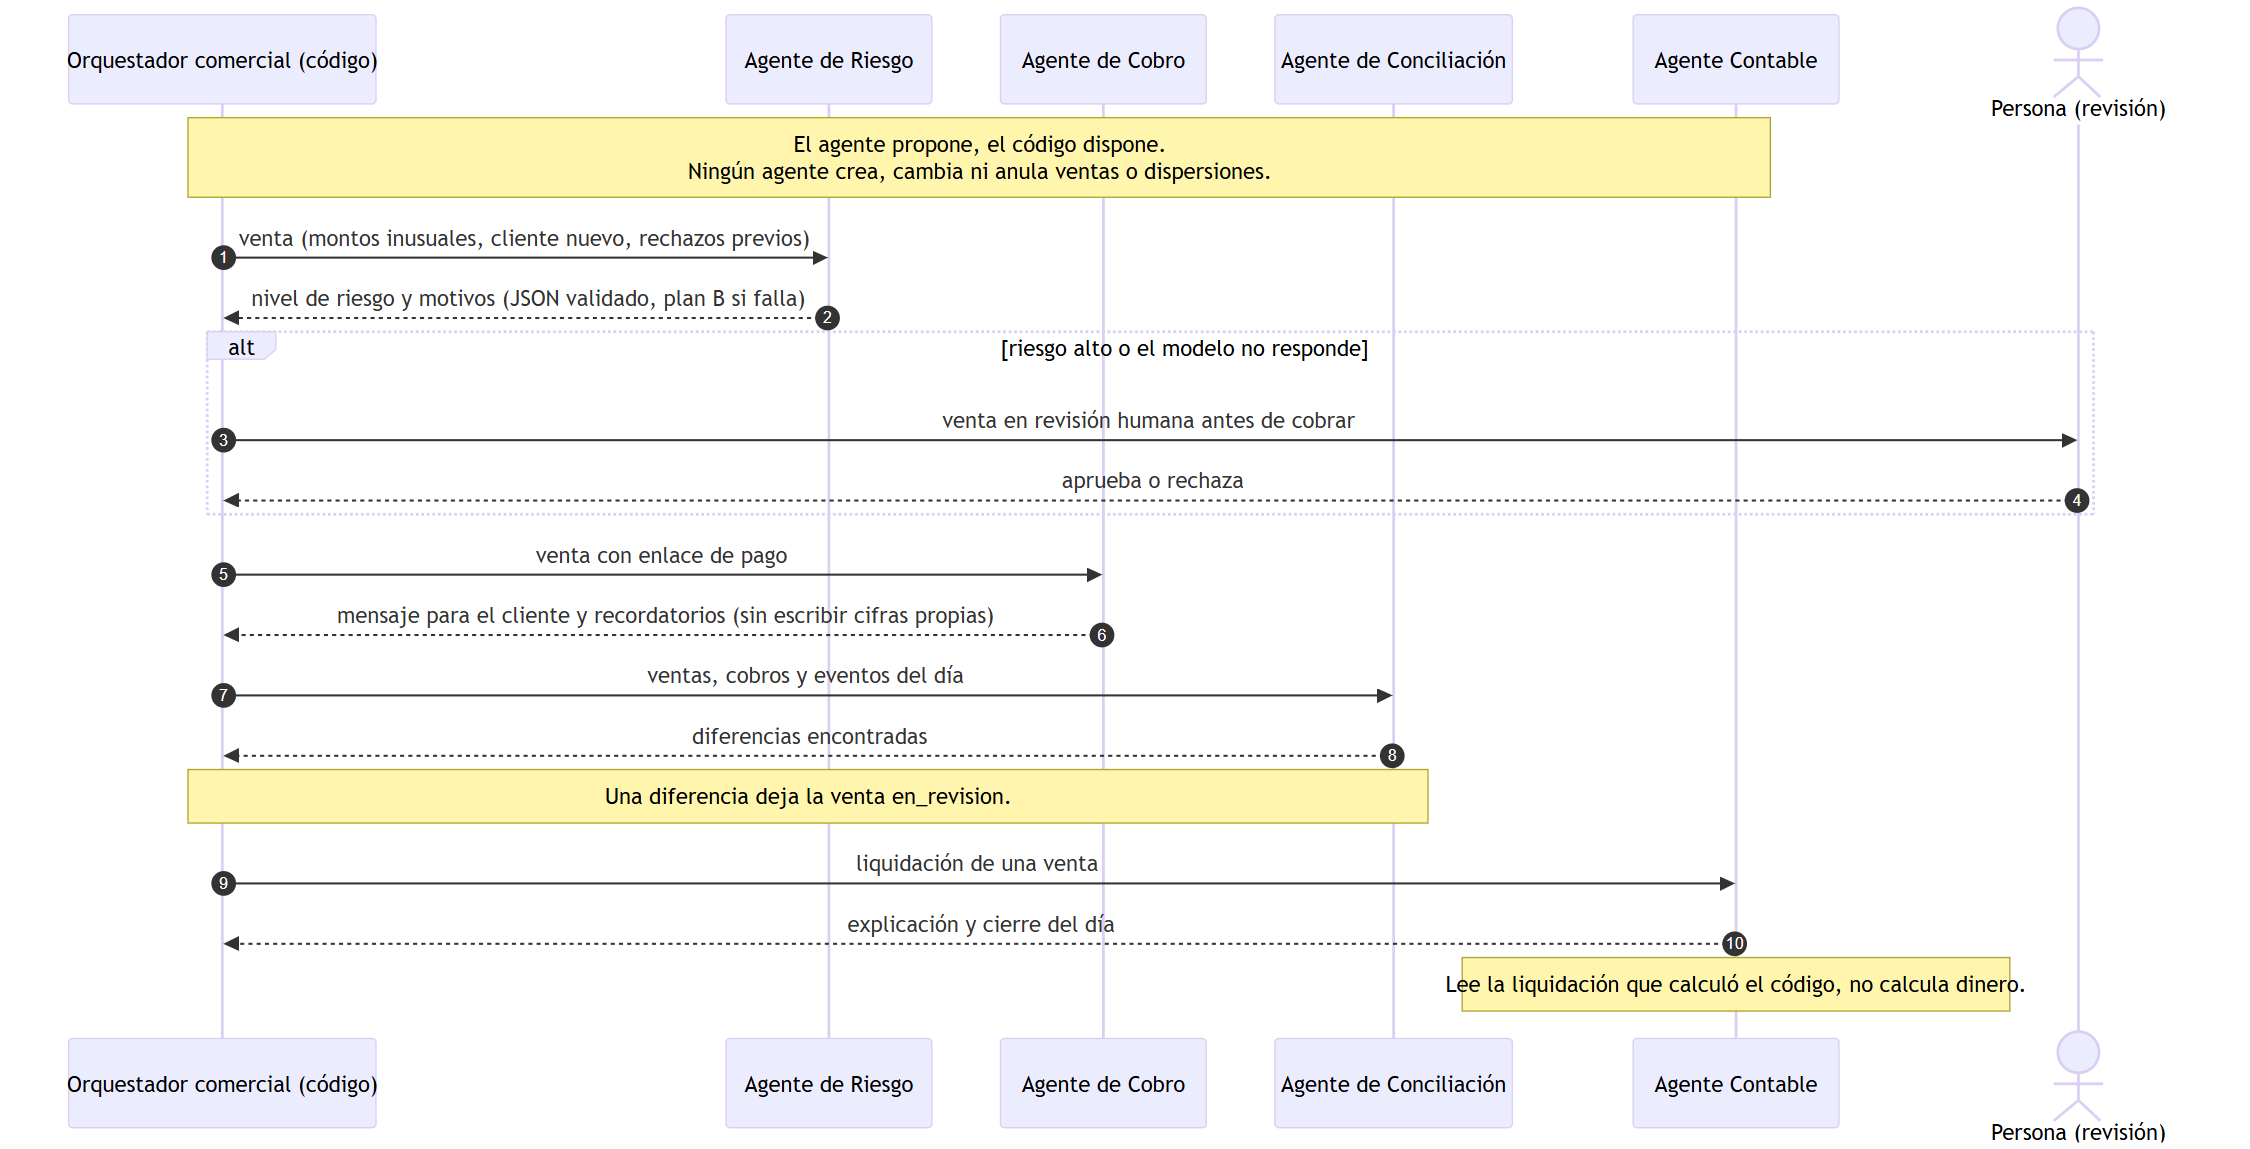
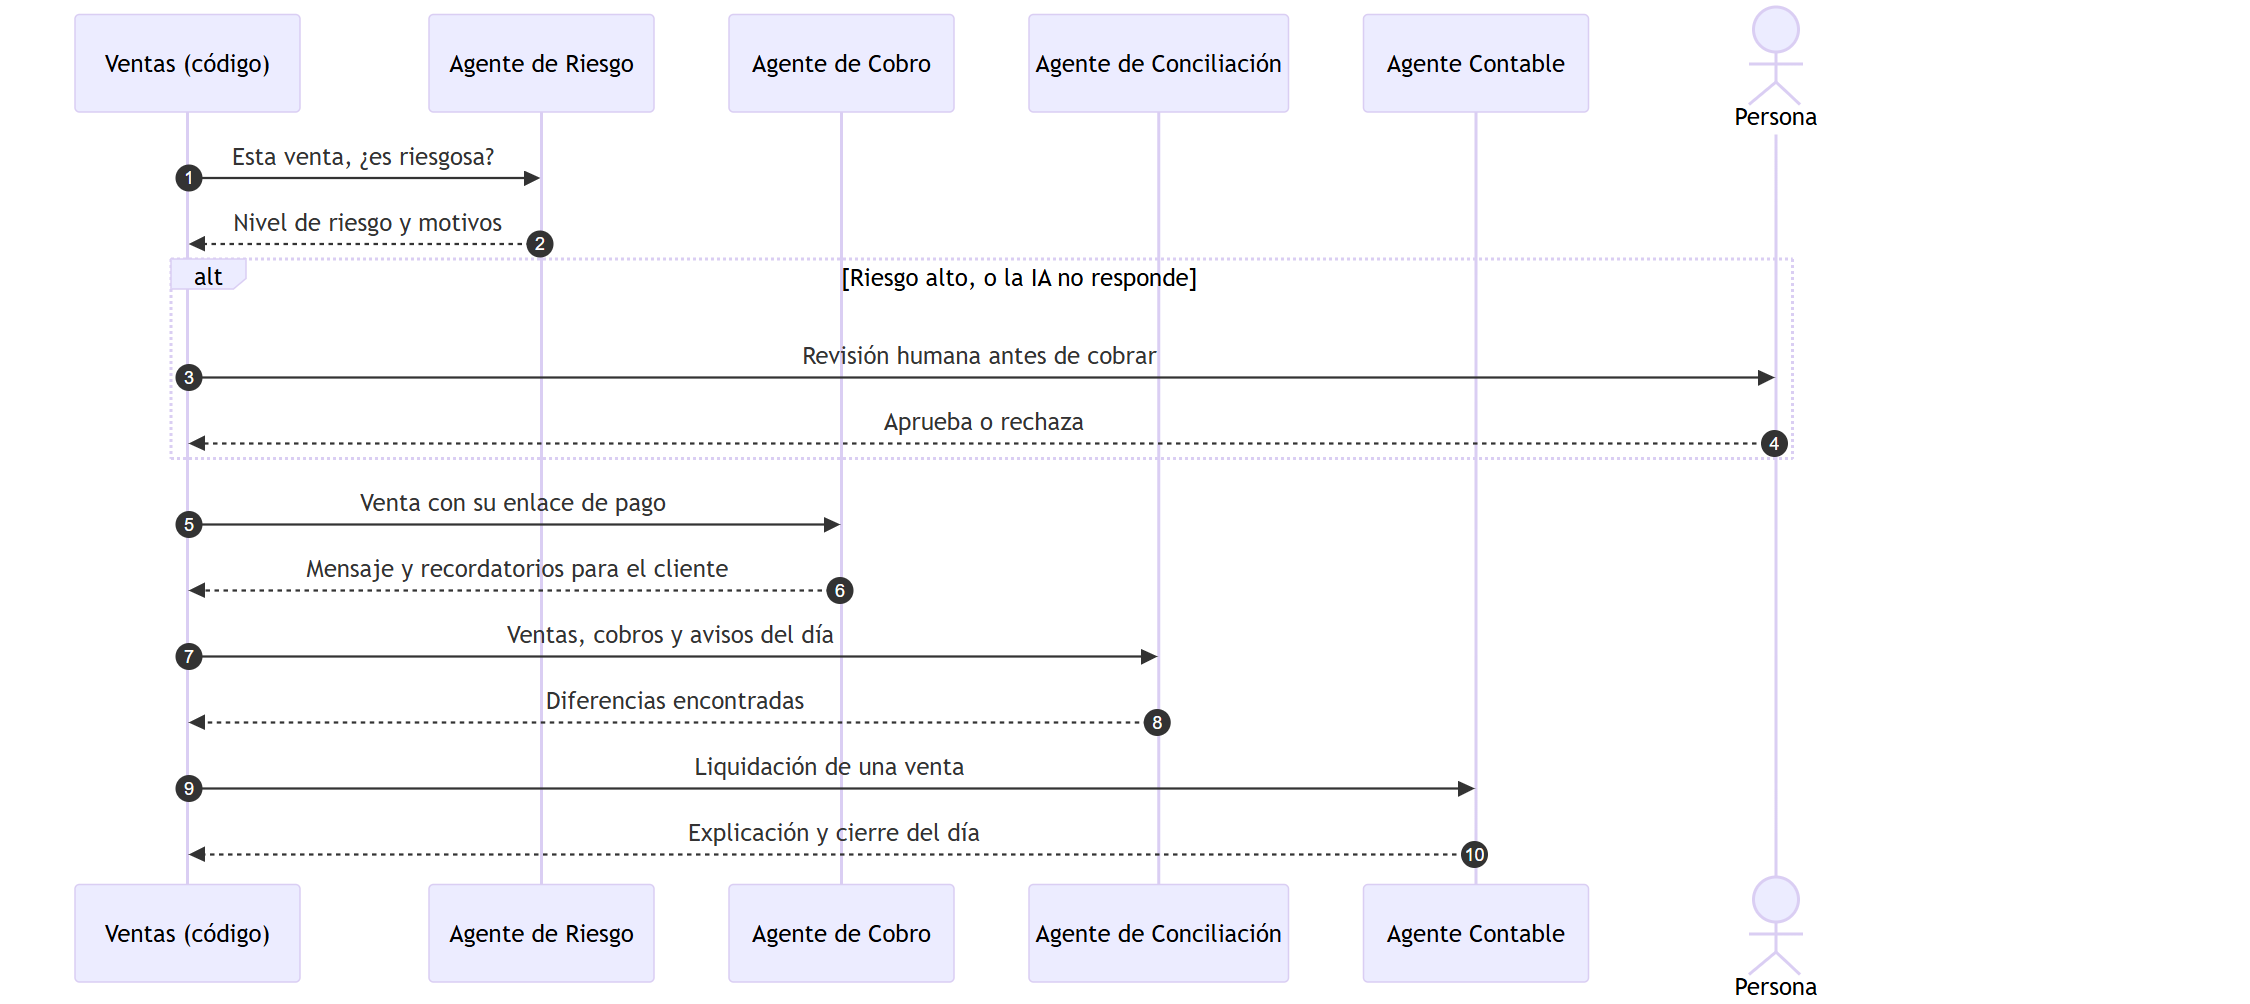
docs: diagrama de Ventas más claro (cuatro fases, glosario, dispersión visible y ejemplo con números del instructivo)

diff --git a/docs/diagrama-secuencia-ventas.md b/docs/diagrama-secuencia-ventas.md
@@ -1,176 +1,195 @@
-# Diagrama de secuencia: Ventas y contabilidad frente a los demás servicios
+# Cómo funciona Ventas (grupo de Zaidy) frente a los demás
 
-Servicio del grupo de Zaidy dentro de MotorRed (Instructivo N.° 5). Ventas es el **orquestador comercial**: arma la venta, cobra, confirma a los proveedores, liquida, dispersa el dinero y lleva los asientos. Es el único que mueve dinero.
+**En una frase:** Ventas es la **caja** del ecosistema. El taller le pide cobrar una reparación, Ventas cobra al cliente, avisa a las tiendas que despachen, **reparte el dinero** entre quienes vendieron y lleva la contabilidad.
 
-Contrastado con el kit `ecosistema-motor` (contrato 1.0): `contrato/REGLAS.md`, `docs/contrato.md`, `simuladores/ventas.mjs` y `simuladores/pasarela.mjs`. Los nombres de herramientas, alcances, estados, eventos y códigos de error son los del kit.
+Es el único servicio que maneja dinero. Contrastado con el kit `ecosistema-motor` (contrato 1.0).
 
-## Quién habla con quién
+## Quién es quién
 
-| Origen | Destino | Cómo | Alcance / protección |
-|---|---|---|---|
-| Taller | Ventas | MCP `crear_venta`, `consultar_venta`, `generar_cobro`, `anular_venta`, `consultar_liquidacion` | Cliente `taller`, alcance `ventas.crear` |
-| App del cliente | Ventas | MCP `consultar_venta`, `generar_cobro`, `consultar_liquidacion` | Cliente `app`, alcance `ventas.consultar` |
-| Ventas | Tienda y Concesionario | MCP `consultar_reserva`, `confirmar_reserva`, `liberar_reserva` | Cliente `ventas`, alcance `proveedor.confirmar` |
-| Ventas | Pasarela | `POST /api/cobros` y `POST /api/cobros/:id/reembolso` | Llave de API (`Authorization: Bearer`) |
-| Pasarela | Ventas | Webhook `POST /webhooks/pasarela` (`cobro.aprobado`, `cobro.rechazado`, `cobro.reembolsado`) | Firma `X-Pasarela-Firma`, máximo 5 min, idempotente por `evento_id` |
-| Ventas | Taller | `POST /eventos`: `venta.pagada`, `venta.liquidada`, `venta.pago_rechazado`, `venta.reembolsada` | Firma `X-Firma`; solo a `NOTIFICACIONES_PERMITIDAS` |
-| Auditor | Todos | `GET /bitacora?traza_id=` | Alcance `auditoria` |
+| Actor | Qué hace en la historia |
+|---|---|
+| **Cliente** | Es la persona que lleva su carro y paga. |
+| **Taller** (Falla) | Diagnostica, cotiza y le pide a Ventas que cobre. |
+| **Ventas** (Zaidy) | **Nosotros.** Cobra, confirma, reparte y registra. |
+| **Proveedores** (José y Emerson) | La tienda de repuestos y el concesionario. Tienen los repuestos reservados. |
+| **Pasarela** | Donde el cliente paga. Es simulada y viene en el kit. |
 
-Estados de una venta: `pendiente_pago`, `pago_rechazado`, `pagada`, `liquidada`, `reembolsada`, `anulada` y `en_revision`.
+## Palabras que verás
 
-## 1. Camino feliz: de la venta a la liquidación
+| Palabra | Qué significa |
+|---|---|
+| **Reserva** | Repuestos apartados para esa orden, con el precio congelado y una hora de vencimiento. |
+| **Cobro** | La orden de pago que Ventas crea en la pasarela. Trae un enlace para que el cliente pague. |
+| **Webhook** | El aviso automático que la pasarela le manda a Ventas cuando el cliente pagó. Va firmado, y puede llegar repetido. |
+| **Liquidar** | Calcular cuánto le toca a cada uno del dinero recibido. |
+| **Dispersión** | El reparto: a cada beneficiario se le registra su parte. En el kit es un registro contable, no una transferencia real. |
+| **Comisión** | El 3 % que se queda la plataforma por el servicio, más el IVA de esa comisión. |
+| **Compensación** | Deshacer lo hecho cuando algo falla después del pago: liberar reservas y devolver el dinero. |
+| **en_revision** | Ventas se detiene y una persona revisa, porque algo no cuadró. Nunca dispersa dinero así. |
+
+## 1. La venta completa, en cuatro fases
+
+Línea continua: una petición. Línea punteada: una respuesta o un aviso.
 
 ```mermaid
 sequenceDiagram
     autonumber
     actor C as Cliente
-    participant T as Taller (Falla)
-    participant V as VENTAS (Zaidy)
-    participant P as Tienda / Concesionario
-    participant G as Pasarela simulada
-
-    Note over T,P: Antes: el taller ya diagnosticó, cotizó y reservó repuestos<br/>con precio congelado y vencimiento. El cliente aprobó la opción.
-
-    T->>V: MCP crear_venta (orden_id, pagador, lineas, clave_idempotencia, traza_id, url_notificacion)
-    Note right of V: Valida el token y el alcance ventas.crear.<br/>Misma clave y mismos datos devuelve la misma venta.<br/>Misma clave con otros datos: IDEMPOTENCIA_CONFLICTO.<br/>url_notificacion fuera de la lista permitida: DATOS_INVALIDOS.
-
-    loop Por cada reserva de la venta
-        V->>P: MCP consultar_reserva (traza_id, reserva_id)
-        P-->>V: estado, items con precio, IVA y cantidad reales
-        Note right of V: La reserva debe estar activa (si no, RESERVA_VENCIDA),<br/>ser de la misma traza y no pertenecer a otra venta (ESTADO_INVALIDO).<br/>SKU, precio, IVA y cantidad deben coincidir: PRECIO_NO_COINCIDE.
-    end
-
-    Note right of V: Agente de Riesgo propone nivel y motivos.<br/>Si el riesgo es alto, la venta queda en revisión humana antes de cobrar.<br/>El código calcula IVA por línea, retención y total_a_pagar en pesos enteros.
-
-    alt total a pagar mayor que cero
-        V->>G: POST /api/cobros (monto entero, referencia = venta_id, url_webhook)
-        G-->>V: cobro_id y url_checkout
-        V-->>T: venta en pendiente_pago con url_pago
-        T-->>C: enlace de pago
-        C->>G: paga (Pagar aprobar)
-        G-->>V: webhook cobro.aprobado (firmado, puede llegar dos veces)
-        Note right of V: Verifica la firma y que tenga menos de 5 min.<br/>Guarda el evento_id solo cuando termina bien: un duplicado se ignora.<br/>El monto del cobro debe ser igual a total_a_pagar.
-    else total a pagar igual a cero (garantía completa)
-        Note right of V: No hay nada que cobrar:<br/>se confirma y se liquida de una vez.
-    end
-
-    V-->>T: evento venta.pagada
-
-    loop Por cada reserva
-        V->>P: MCP confirmar_reserva (traza_id, reserva_id, venta_id)
-        P-->>V: reserva confirmada con la guía de despacho
-    end
+    participant T as Taller
+    participant V as VENTAS (nosotros)
+    participant P as Proveedores<br/>(tienda y concesionario)
+    participant G as Pasarela
 
     rect rgb(238, 242, 255)
-    Note over V: Liquidación en una sola transacción de PostgreSQL<br/>1. Retención en la fuente si el pagador es retenedor (parámetros con vigencia)<br/>2. Comisión de la plataforma 3% más su IVA, por beneficiario<br/>3. Neto de cada beneficiario y dispersión transferida<br/>4. Asientos en partida doble: débitos igual a créditos
-    end
-
-    V-->>T: evento venta.liquidada (neto por beneficiario)
-    Note over T: La orden pasa a en_reparacion.
-    T-->>C: el taller puede empezar
-```
-
-Los eventos de una misma venta salen **en orden**: `venta.pagada` siempre antes que `venta.liquidada`.
-
-## 2. Fallos y compensaciones
-
-```mermaid
-sequenceDiagram
-    autonumber
-    actor C as Cliente
-    participant T as Taller (Falla)
-    participant V as VENTAS (Zaidy)
-    participant P as Tienda / Concesionario
-    participant G as Pasarela simulada
-
-    rect rgb(254, 242, 242)
-    Note over C,G: A. Pago rechazado (escenario E3)
-    C->>G: intenta pagar y es rechazado
-    G-->>V: webhook cobro.rechazado
-    Note right of V: La venta pasa a pago_rechazado.
-    V-->>T: evento venta.pago_rechazado
-    T->>V: MCP generar_cobro
-    Note right of V: Vuelve a verificar que las reservas sigan activas.
-    V->>G: POST /api/cobros (cobro nuevo)
-    G-->>V: nuevo cobro_id y url_checkout
-    V-->>T: venta en pendiente_pago con enlace nuevo
-    C->>G: paga con éxito
-    G-->>V: webhook cobro.aprobado
-    Note over V: La venta se completa y se liquida una sola vez.
+    Note over T,G: FASE 1 · PREPARAR. El cliente ya aprobó la reparación
+    T->>V: Crear venta (qué se vende y quién paga)
+    V->>P: ¿Siguen vigentes las reservas y sus precios?
+    P-->>V: Sí, estos son los precios reales
+    Note over V: Si algún precio no coincide, Ventas rechaza la venta
+    V->>G: Crear el cobro por el total
+    G-->>V: Cobro creado con su enlace de pago
+    V-->>T: Venta lista y enlace de pago
+    T-->>C: Aquí está el enlace para pagar
     end
 
     rect rgb(255, 247, 237)
-    Note over C,G: B. Una reserva venció antes del pago: saga con compensación (escenario E4)
-    G-->>V: webhook cobro.aprobado
-    V-->>T: evento venta.pagada
-    V->>P: MCP confirmar_reserva
-    P-->>V: error RESERVA_VENCIDA
-    Note right of V: Ventas no puede des-cobrar.<br/>Compensa en orden y lo deja en la bitácora (saga_compensacion).
-    V->>P: MCP liberar_reserva (solo las reservas de esta venta)
-    P-->>V: unidades devueltas al inventario
-    V->>G: POST /api/cobros/:id/reembolso
-    G-->>V: cobro reembolsado
-    V-->>T: evento venta.reembolsada
-    Note over T: La orden queda en requiere_nueva_cotizacion y el taller cotiza de nuevo.
-    Note right of V: Si el reembolso falla, la venta queda en_revision.
-    end
-
-    rect rgb(245, 243, 255)
-    Note over C,G: C. Algo no cuadra: la baranda detiene el dinero
-    G-->>V: webhook con un monto distinto a total_a_pagar
-    Note right of V: La saga no improvisa.<br/>La venta queda en_revision y no dispersa nada.<br/>Lo mismo si la liquidación no cuadra.<br/>Una persona revisa la bitácora con el traza_id.
+    Note over T,G: FASE 2 · COBRAR
+    C->>G: Paga en la pasarela
+    G-->>V: Aviso: pago aprobado
+    Note over V: Revisa que el aviso sea auténtico y que el monto cuadre
+    V-->>T: Aviso: venta pagada
     end
 
     rect rgb(240, 253, 244)
-    Note over C,G: D. Ataques que Ventas rechaza (escenario E6)
-    T->>V: crear_venta con un precio alterado
-    V-->>T: PRECIO_NO_COINCIDE
-    T->>V: crear_venta con una reserva que ya es de otra venta
-    V-->>T: ESTADO_INVALIDO
-    G-->>V: webhook con firma falsa o de hace más de 5 min
-    Note right of V: Se rechaza con 401 y no cambia ningún estado.
-    T->>V: consultar_venta con la traza_id de otra orden
-    V-->>T: NO_ENCONTRADO
-    T->>V: crear_venta con url_notificacion externa
-    V-->>T: DATOS_INVALIDOS
+    Note over T,G: FASE 3 · CONFIRMAR A LOS PROVEEDORES
+    V->>P: Confirmar las reservas. Ya están pagadas
+    P-->>V: Confirmadas y listas para despachar
+    end
+
+    rect rgb(250, 245, 255)
+    Note over T,G: FASE 4 · REPARTIR EL DINERO Y REGISTRARLO
+    Note over V: Calcula la parte de cada uno:<br/>precio + IVA - retención - comisión
+    V->>T: Dispersión: la parte del taller
+    V->>P: Dispersión: la parte de cada proveedor
+    V->>V: La plataforma se queda con su comisión
+    Note over V: Registra todo en la contabilidad<br/>y comprueba que cuadre al peso
+    V-->>T: Aviso: venta liquidada, con lo repartido
+    T-->>C: Listo, el taller empieza la reparación
     end
 ```
 
-## 3. Dónde entran los agentes de IA de Ventas
+### Ejemplo con números reales (orden de Ana, opción económica)
+
+Ana pagó **$345.219**. Así se reparte:
+
+| Beneficiario | Base | IVA | Comisión (3 %) | IVA de la comisión | **Le llega** |
+|---|---|---|---|---|---|
+| Tienda | $147.600 | $28.044 | $4.428 | $841 | **$170.375** |
+| Taller | $142.500 | $27.075 | $4.275 | $812 | **$164.488** |
+| Plataforma (Ventas) | | | | | **$10.356** |
+| **Total** | | | | | **$345.219** |
+
+Lo que reciben tienda y taller, más lo que retiene la plataforma, es **exactamente** lo que pagó Ana. Si no cuadra, la venta queda en revisión.
+
+## 2. Cuando algo sale mal
 
 ```mermaid
 sequenceDiagram
     autonumber
-    participant V as Orquestador comercial (código)
+    actor C as Cliente
+    participant T as Taller
+    participant V as VENTAS (nosotros)
+    participant P as Proveedores
+    participant G as Pasarela
+
+    rect rgb(254, 242, 242)
+    Note over C,G: A. El pago es rechazado
+    C->>G: Intenta pagar
+    G-->>V: Aviso: pago rechazado
+    V-->>T: Aviso: pago rechazado
+    T->>V: Pide un cobro nuevo
+    V->>G: Crear un nuevo cobro
+    G-->>V: Nuevo enlace de pago
+    V-->>T: Enlace nuevo
+    C->>G: Paga con éxito
+    Note over V: La venta sigue su camino normal y se liquida una sola vez
+    end
+
+    rect rgb(255, 247, 237)
+    Note over C,G: B. La reserva venció antes de confirmar
+    G-->>V: Aviso: pago aprobado
+    V->>P: Confirmar las reservas
+    P-->>V: Error: una reserva ya venció
+    Note over V: No se puede despachar.<br/>Ventas deshace lo hecho, en este orden
+    V->>P: 1. Liberar las demás reservas
+    V->>G: 2. Devolver el dinero al cliente
+    V-->>T: 3. Aviso: venta reembolsada
+    Note over T: El taller vuelve a cotizar
+    end
+
+    rect rgb(245, 243, 255)
+    Note over C,G: C. Algo no cuadra
+    G-->>V: Aviso con un monto distinto al de la venta
+    Note over V: Ventas se detiene.<br/>Queda en revisión y NO reparte dinero.<br/>Una persona revisa la bitácora
+    end
+```
+
+### Ataques que Ventas rechaza
+
+| Qué intentan | Qué responde Ventas |
+|---|---|
+| Cobrar un precio distinto al de la reserva | `PRECIO_NO_COINCIDE` |
+| Usar una reserva que ya es de otra venta | `ESTADO_INVALIDO` |
+| Mandar un aviso de pago con firma falsa o vieja (más de 5 min) | Lo rechaza y no cambia nada |
+| Consultar una venta con la traza de otra orden | `NO_ENCONTRADO` |
+| Pedir que los avisos se envíen a una dirección externa | `DATOS_INVALIDOS` |
+| Repetir la misma petición | Devuelve lo mismo, sin cobrar dos veces. Con otros datos: `IDEMPOTENCIA_CONFLICTO` |
+
+## 3. Dónde ayuda la inteligencia artificial
+
+La IA solo propone. Quien decide siempre es el código, y ningún agente puede crear, cambiar ni anular una venta ni mover dinero.
+
+```mermaid
+sequenceDiagram
+    autonumber
+    participant V as Ventas (código)
     participant R as Agente de Riesgo
     participant K as Agente de Cobro
     participant L as Agente de Conciliación
     participant A as Agente Contable
-    actor H as Persona (revisión)
+    actor H as Persona
 
-    Note over V,A: El agente propone, el código dispone.<br/>Ningún agente crea, cambia ni anula ventas o dispersiones.
-
-    V->>R: venta (montos inusuales, cliente nuevo, rechazos previos)
-    R-->>V: nivel de riesgo y motivos (JSON validado, plan B si falla)
-    alt riesgo alto o el modelo no responde
-        V->>H: venta en revisión humana antes de cobrar
-        H-->>V: aprueba o rechaza
+    V->>R: Esta venta, ¿es riesgosa?
+    R-->>V: Nivel de riesgo y motivos
+    alt Riesgo alto, o la IA no responde
+        V->>H: Revisión humana antes de cobrar
+        H-->>V: Aprueba o rechaza
     end
 
-    V->>K: venta con enlace de pago
-    K-->>V: mensaje para el cliente y recordatorios (sin escribir cifras propias)
+    V->>K: Venta con su enlace de pago
+    K-->>V: Mensaje y recordatorios para el cliente
 
-    V->>L: ventas, cobros y eventos del día
-    L-->>V: diferencias encontradas
-    Note over V,L: Una diferencia deja la venta en_revision.
+    V->>L: Ventas, cobros y avisos del día
+    L-->>V: Diferencias encontradas
 
-    V->>A: liquidación de una venta
-    A-->>V: explicación y cierre del día
-    Note over A: Lee la liquidación que calculó el código, no calcula dinero.
+    V->>A: Liquidación de una venta
+    A-->>V: Explicación y cierre del día
 ```
 
-El simulador de referencia del kit **no trae** el agente de Riesgo ni los demás: son parte del trabajo del grupo (Trabajos 4 y 5 del instructivo).
+El simulador del kit no trae estos agentes: los construye el grupo.
+
+## Referencia técnica (para programar)
+
+| Origen | Destino | Cómo | Protección |
+|---|---|---|---|
+| Taller | Ventas | `crear_venta`, `consultar_venta`, `generar_cobro`, `anular_venta`, `consultar_liquidacion` | Token OAuth, alcance `ventas.crear` |
+| Ventas | Proveedores | `consultar_reserva`, `confirmar_reserva`, `liberar_reserva` | Alcance `proveedor.confirmar` |
+| Ventas | Pasarela | `POST /api/cobros` y `POST /api/cobros/:id/reembolso` | Llave de API |
+| Pasarela | Ventas | `POST /webhooks/pasarela` | Firma `X-Pasarela-Firma`, máximo 5 min, `evento_id` único |
+| Ventas | Taller | `POST /eventos`: `venta.pagada`, `venta.liquidada`, `venta.pago_rechazado`, `venta.reembolsada` | Firma `X-Firma`, solo destinos permitidos |
+
+Estados de una venta: `pendiente_pago`, `pago_rechazado`, `pagada`, `liquidada`, `reembolsada`, `anulada` y `en_revision`. Los eventos de una misma venta salen en orden: `venta.pagada` antes que `venta.liquidada`.
 
 ## Imágenes
 
-Por si tu visor no dibuja Mermaid: [camino feliz](diagramas/ventas-1-camino-feliz.png), [fallos y compensaciones](diagramas/ventas-2-fallos-y-compensaciones.png) y [agentes](diagramas/ventas-3-agentes.png).
+Por si tu visor no dibuja Mermaid: [venta completa](diagramas/ventas-1-camino-feliz.png), [cuando algo sale mal](diagramas/ventas-2-fallos-y-compensaciones.png) y [agentes](diagramas/ventas-3-agentes.png).
